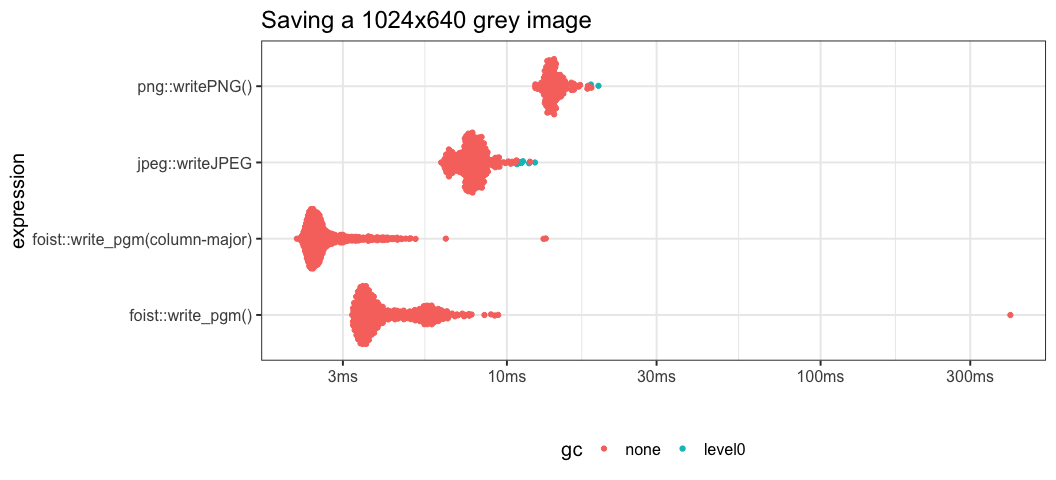
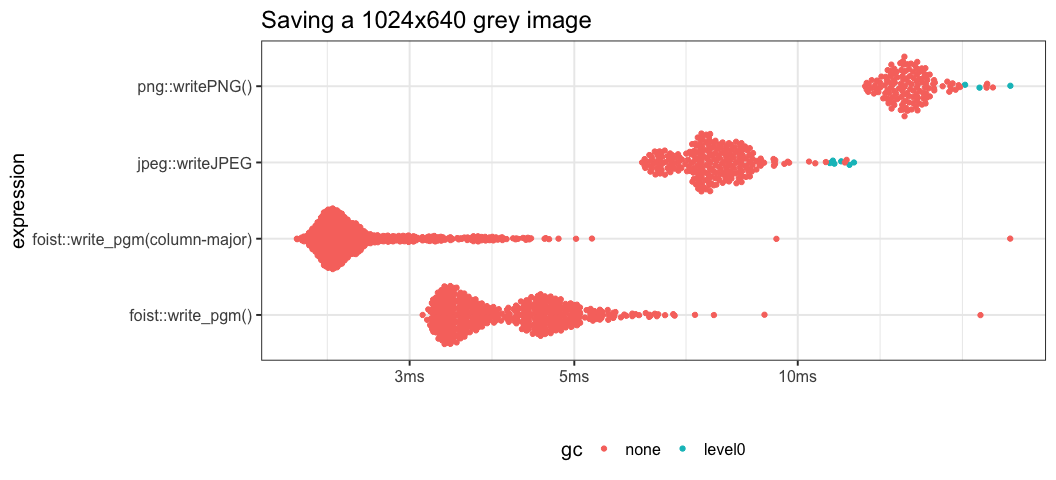
update benchmark

diff --git a/README.md b/README.md
@@ -198,10 +198,10 @@ res <- bench::mark(
 
 | expression                      |     min |    mean |  median | itr/sec | mem\_alloc |
 | :------------------------------ | ------: | ------: | ------: | ------: | ---------: |
-| foist::write\_pgm()             |  3.21ms |  5.41ms |  3.74ms |     185 |     2.49KB |
-| foist::write\_pgm(column-major) |  2.14ms |  2.68ms |  2.48ms |     373 |     2.49KB |
-| png::writePNG()                 | 12.32ms | 14.19ms | 14.03ms |      70 |   673.21KB |
-| jpeg::writeJPEG                 |  6.17ms |   7.8ms |  7.75ms |     128 |   663.55KB |
+| foist::write\_pgm()             |  3.12ms |   4.2ms |  4.07ms |     238 |     2.49KB |
+| foist::write\_pgm(column-major) |  2.12ms |  2.64ms |  2.43ms |     378 |     2.49KB |
+| png::writePNG()                 | 12.32ms | 14.18ms | 14.03ms |      71 |   673.21KB |
+| jpeg::writeJPEG                 |  6.17ms |  7.71ms |  7.62ms |     130 |   663.55KB |
 
 Benchmark results
 
@@ -233,12 +233,12 @@ res <- bench::mark(
 )
 ```
 
-| expression                      |     min |    mean |  median | itr/sec | mem\_alloc |
-| :------------------------------ | ------: | ------: | ------: | ------: | ---------: |
-| foist::write\_ppm()             | 18.94ms | 27.16ms | 21.91ms |      37 |     2.49KB |
-| foist::write\_ppm(column-major) |  4.81ms |  6.48ms |  6.01ms |     154 |     2.49KB |
-| png::writePNG()                 | 46.17ms | 49.36ms | 48.57ms |      20 |     1.88MB |
-| jpeg::writeJPEG                 | 26.22ms | 28.81ms | 28.81ms |      35 |     1.88MB |
+| expression                      |     min |   mean |  median | itr/sec | mem\_alloc |
+| :------------------------------ | ------: | -----: | ------: | ------: | ---------: |
+| foist::write\_ppm()             | 18.73ms | 22.6ms | 21.74ms |      44 |     2.49KB |
+| foist::write\_ppm(column-major) |  4.81ms |  6.5ms |  5.99ms |     154 |     2.49KB |
+| png::writePNG()                 | 45.21ms | 49.6ms | 49.58ms |      20 |     1.88MB |
+| jpeg::writeJPEG                 | 26.05ms | 28.8ms | 28.86ms |      35 |     1.88MB |
 
 Benchmark results
 
